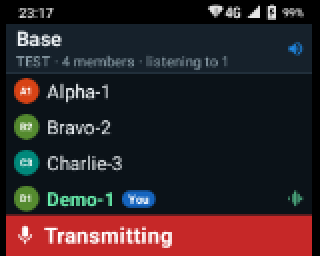
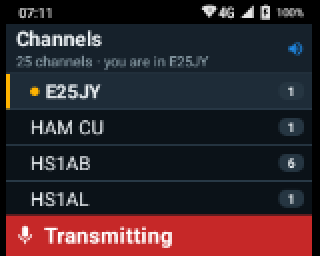
README: equal-size screenshot pairs; real Transmitting screenshot
The gallery was a table, whose column widths follow the caption text, so on
phones the two columns (and pictures) differed in size. Pairs of pictures now
sit side by side at 49% width each with their captions below. Transmitting is
now from a one-second key-up in an empty, unlinked channel on the hub.

diff --git a/README.en.md b/README.en.md
@@ -108,21 +108,47 @@ QRV-Hub is the set of fixes, measured and tested on the radio.
 
 ### Screenshots
 
-Taken on the radio itself (160×128, shown at 2×) in real use on the E2Hub server, except
-"Transmitting", which was taken on a test server ("TEST") so nobody on the hub heard a test key-up.
+Taken on the radio itself (160×128, shown at 2×) in real use on the E2Hub server.
 
-|   |   |
-|---|---|
-| <img src="docs/screenshots/login.png" width="320" alt="**Login**: just username and password; the server is built in"> | <img src="docs/screenshots/members.png" width="320" alt="**Members** of your channel"> |
-| **Login**: just username and password; the server is built in | **Members** of your channel |
-| <img src="docs/screenshots/speaking.png" width="320" alt="**Monitoring**: HS1AB-99 talks in your channel, E24CY-1 in the monitored channel E24CY (with its tag)"> | <img src="docs/screenshots/channels.png" width="320" alt="**Channels**: monitored ones have a blue speaker"> |
-| **Monitoring**: HS1AB-99 talks in your channel, E24CY-1 in the monitored channel E24CY (with its tag) | **Channels**: monitored ones have a blue speaker |
-| <img src="docs/screenshots/transmitting.png" width="320" alt="**Transmitting** (PTT held)"> | <img src="docs/screenshots/menu.png" width="320" alt="**Menu** for a monitored channel (MENU)"> |
-| **Transmitting** (PTT held) | **Menu** for a monitored channel (MENU) |
-| <img src="docs/screenshots/volume.png" width="320" alt="**Volume**: 30 steps on the knob"> | <img src="docs/screenshots/locked.png" width="320" alt="**PTT lock** on ◀/▶"> |
-| **Volume**: 30 steps on the knob | **PTT lock** on ◀/▶ |
-| <img src="docs/screenshots/muted.png" width="320" alt="**Mute**: double-press Power"> | <img src="docs/screenshots/launcher.png" width="320" alt="**QRV-Hub Launcher**: QRV-Hub or Spender Network"> |
-| **Mute**: double-press Power | **QRV-Hub Launcher**: QRV-Hub or Spender Network |
+<p>
+<img src="docs/screenshots/login.png" width="49%" alt="Login">
+<img src="docs/screenshots/members.png" width="49%" alt="Members">
+</p>
+
+* Left: **Login**: just username and password; the server is built in
+* Right: **Members** of your channel
+
+<p>
+<img src="docs/screenshots/speaking.png" width="49%" alt="Monitoring">
+<img src="docs/screenshots/channels.png" width="49%" alt="Channels">
+</p>
+
+* Left: **Monitoring**: HS1AB-99 talks in your channel, E24CY-1 in the monitored channel E24CY (with its tag)
+* Right: **Channels**: monitored ones have a blue speaker
+
+<p>
+<img src="docs/screenshots/transmitting.png" width="49%" alt="Transmitting">
+<img src="docs/screenshots/menu.png" width="49%" alt="Menu">
+</p>
+
+* Left: **Transmitting** while PTT is held
+* Right: **Menu** for a monitored channel (MENU)
+
+<p>
+<img src="docs/screenshots/volume.png" width="49%" alt="Volume">
+<img src="docs/screenshots/locked.png" width="49%" alt="PTT lock">
+</p>
+
+* Left: **Volume**: 30 steps on the knob
+* Right: **PTT lock** on ◀/▶
+
+<p>
+<img src="docs/screenshots/muted.png" width="49%" alt="Mute">
+<img src="docs/screenshots/launcher.png" width="49%" alt="Launcher">
+</p>
+
+* Left: **Mute**: double-press Power
+* Right: **QRV-Hub Launcher**: QRV-Hub or Spender Network
 
 ## Installing on the radio
 
